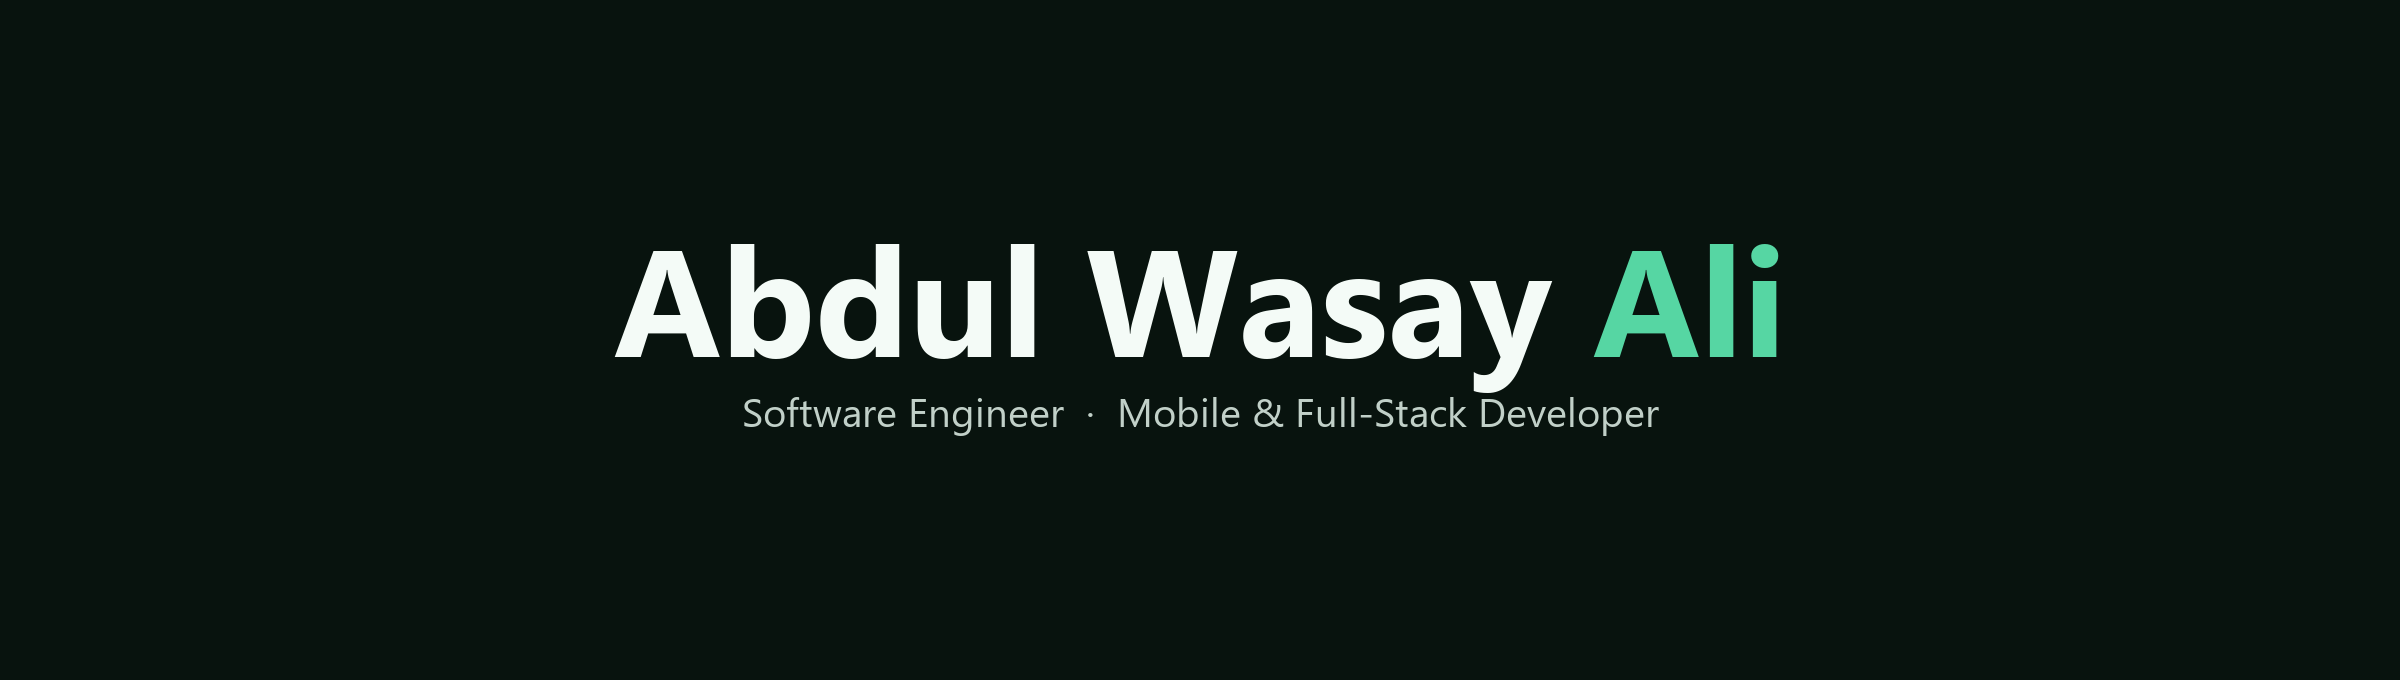
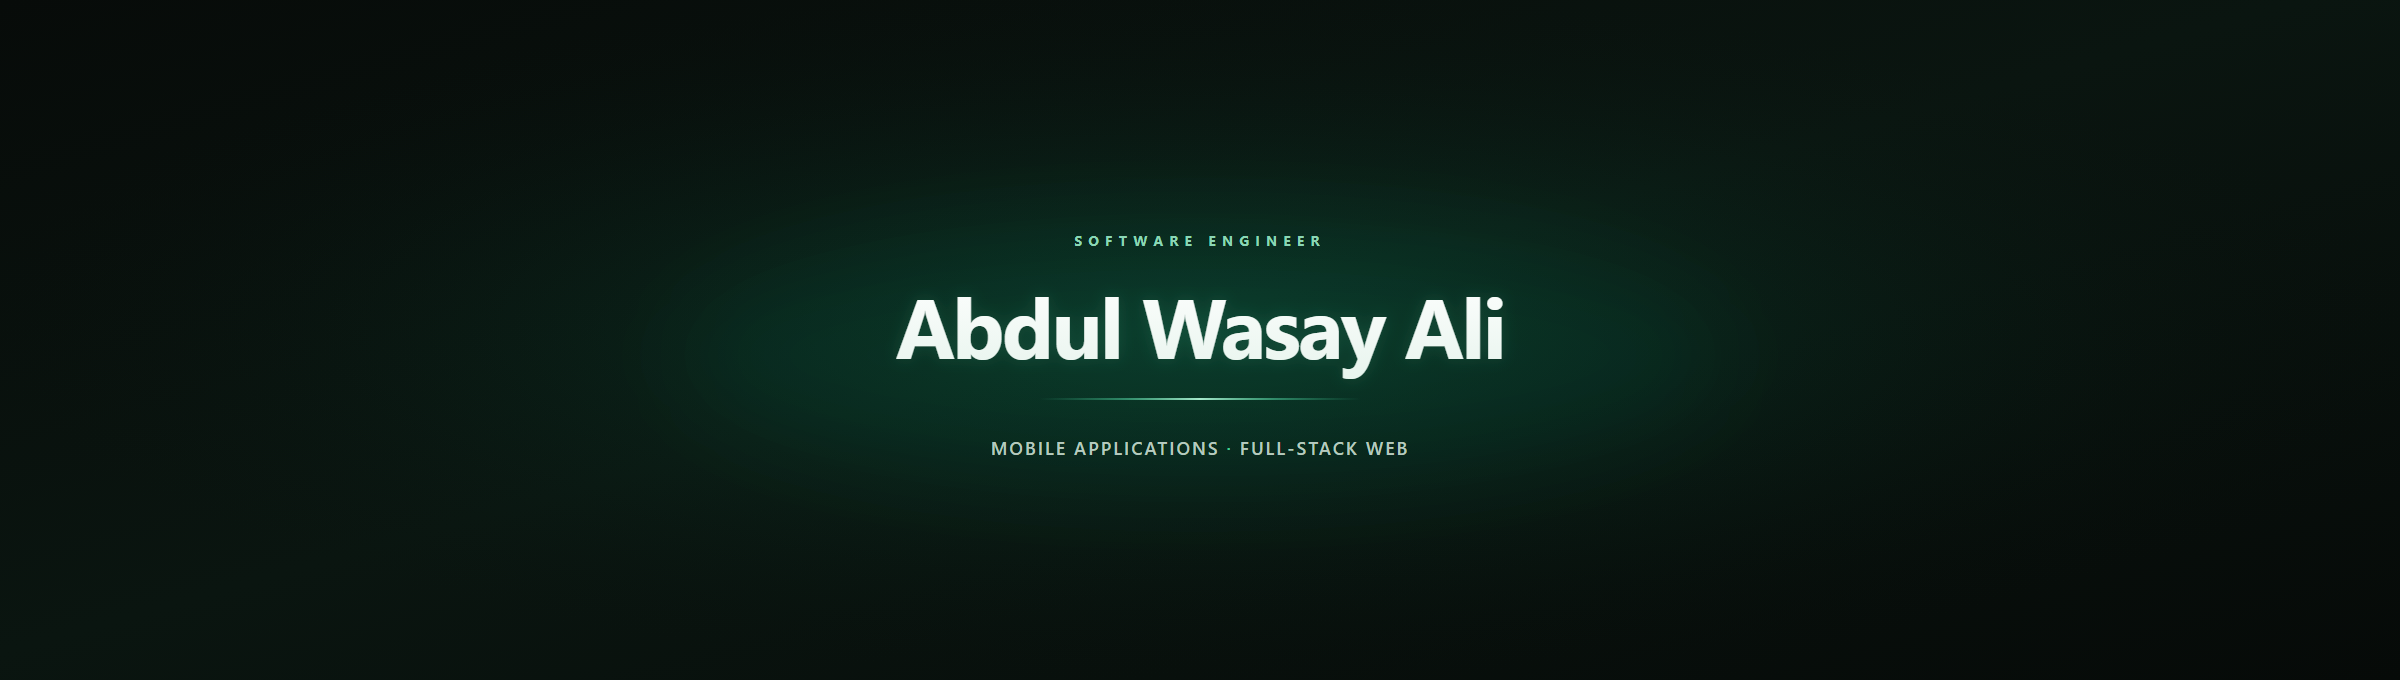
Match profile README to emerald preview

Changed region(s): [[0.25, 0.3397, 0.75, 0.6794]]

diff --git a/README.md b/README.md
@@ -11,53 +11,64 @@
 
 ---
 
-## About Me
+<p><img src="assets/section-about.svg" width="120" alt="About Me" /></p>
 
-### Aspiring Software Engineer | Mobile App Developer | Flutter & Dart | MERN Stack | Firebase & REST API Integration
-
-I'm Abdul Wasay Ali — a passionate Software Engineering student based in Karachi, Pakistan.
-
-I am currently pursuing a Diploma in Software Engineering, and continuing my Intermediate studies also from Aptech (SBTE).
-
-Through my academic journey, I have developed a strong passion for technology and real-world problem-solving. I have worked on several academic and personal projects that have strengthened my practical understanding of software development — from front-end to back-end concepts across mobile and web platforms.
-
-I am always eager to learn, build projects, and collaborate with others. Currently, I am looking for internship and project opportunities to grow further and gain hands-on experience in the tech industry.
-
-My goal is to become a skilled software engineer who contributes meaningfully to innovative and impactful technology solutions.
-
----
-
-## Technology Toolkit
-
-<p align="center">
-  <img src="https://skillicons.dev/icons?i=flutter,dart,firebase,python,r,react,nodejs,express,mongodb,javascript,html,css,bootstrap,tailwind,php,laravel,cs,dotnet,mysql,mssql,git,github,figma" alt="Flutter, Dart, Firebase, Python, R, React, Node.js, Express.js, MongoDB, JavaScript, HTML5, CSS3, Bootstrap, Tailwind CSS, PHP, Laravel, C#, .NET, MySQL, SQL Server, Git, GitHub, and Figma" />
-</p>
-
-<p align="center"><sub>Cross-platform apps · REST API integration · State management · Responsive web development</sub></p>
+<table width="100%" border="1" bordercolor="#29473A" bgcolor="#0B1511">
+  <tbody><tr><td>
+    <p><strong>Aspiring Software Engineer | Mobile App Developer | Flutter &amp; Dart | MERN Stack | Firebase &amp; REST API Integration</strong></p>
+    <p>I'm Abdul Wasay Ali — a passionate Software Engineering student based in Karachi, Pakistan.</p>
+    <p>I am currently pursuing a Diploma in Software Engineering, and continuing my Intermediate studies also from Aptech (SBTE).</p>
+    <p>Through my academic journey, I have developed a strong passion for technology and real-world problem-solving. I have worked on several academic and personal projects that have strengthened my practical understanding of software development — from front-end to back-end concepts across mobile and web platforms.</p>
+    <p>I am always eager to learn, build projects, and collaborate with others. Currently, I am looking for internship and project opportunities to grow further and gain hands-on experience in the tech industry.</p>
+    <p>My goal is to become a skilled software engineer who contributes meaningfully to innovative and impactful technology solutions.</p>
+  </td></tr></tbody>
+</table>
 
 ---
 
-## GitHub Activity & Analytics
+<p><img src="assets/section-toolkit.svg" width="190" alt="Technology Toolkit" /></p>
 
-<p align="center">
-  <img src="assets/github-stats.svg" width="49%" alt="GitHub statistics and rank for Abdul Wasay Ali" />
-  <img src="assets/top-langs.svg" width="49%" alt="Top programming languages" />
-</p>
+## Tools and technologies
+
+Your complete stack stays together in one compact section, without repeating it in long lists.
+
+<table width="100%" border="1" bordercolor="#29473A" bgcolor="#0B1511">
+  <thead><tr><th align="left">Complete Technology Stack</th><th align="right">23 tools</th></tr></thead>
+  <tbody><tr><td colspan="2" align="center">
+    <img src="https://skillicons.dev/icons?i=flutter,dart,firebase,python,r,react,nodejs,express,mongodb,javascript,html,css,bootstrap,tailwind,php,laravel,cs,dotnet,mysql,mssql,git,github,figma" alt="Flutter, Dart, Firebase, Python, R, React, Node.js, Express.js, MongoDB, JavaScript, HTML5, CSS3, Bootstrap, Tailwind CSS, PHP, Laravel, C#, .NET, MySQL, SQL Server, Git, GitHub, and Figma" />
+  </td></tr><tr><td colspan="2" align="center"><sub>Cross-platform apps · REST API integration · State management · Responsive web development</sub></td></tr></tbody>
+</table>
+
+---
+
+<p><img src="assets/section-analytics.svg" width="280" alt="GitHub Activity and Analytics" /></p>
+
+## GitHub activity
+
+Your public GitHub activity and language distribution, shown in the same emerald theme.
+
+<table width="100%" border="1" bordercolor="#29473A" bgcolor="#0B1511">
+  <thead><tr><th>GITHUB STATS · ACTIVITY</th><th>TOP LANGUAGES</th></tr></thead>
+  <tbody><tr>
+    <td width="50%" align="center"><img src="assets/github-stats.svg" width="100%" alt="Public GitHub statistics for Abdul Wasay Ali" /></td>
+    <td width="50%" align="center"><img src="assets/top-langs.svg" width="100%" alt="Top programming languages" /></td>
+  </tr></tbody>
+</table>
 
 GitHub's native contribution calendar appears below this README on your profile.
 
 ---
 
+<p><img src="assets/section-education.svg" width="125" alt="Education" /></p>
+
 ## Education
 
-**Diploma in Software Engineering** · *2024–2027 · Continuing*<br>
-Aptech Computer Education, Shahrah-e-Faisal
-
-**Intermediate** · *2026–2027 · Continuing*<br>
-Aptech Computer Education, Shahrah-e-Faisal · SBTE (Sindh Board of Technical Education)
-
-**Matriculation — Science Group (Biology)** · *2020–2021*<br>
-Dehli Government Boys Secondary School, Karachi
+1. **Diploma in Software Engineering** · *2024–2027 · Continuing*<br>
+   Aptech Computer Education, Shahrah-e-Faisal
+2. **Intermediate** · *2026–2027 · Continuing*<br>
+   Aptech Computer Education, Shahrah-e-Faisal · SBTE (Sindh Board of Technical Education)
+3. **Matriculation — Science Group (Biology)** · *2020–2021*<br>
+   Dehli Government Boys Secondary School, Karachi
 
 ---
 
